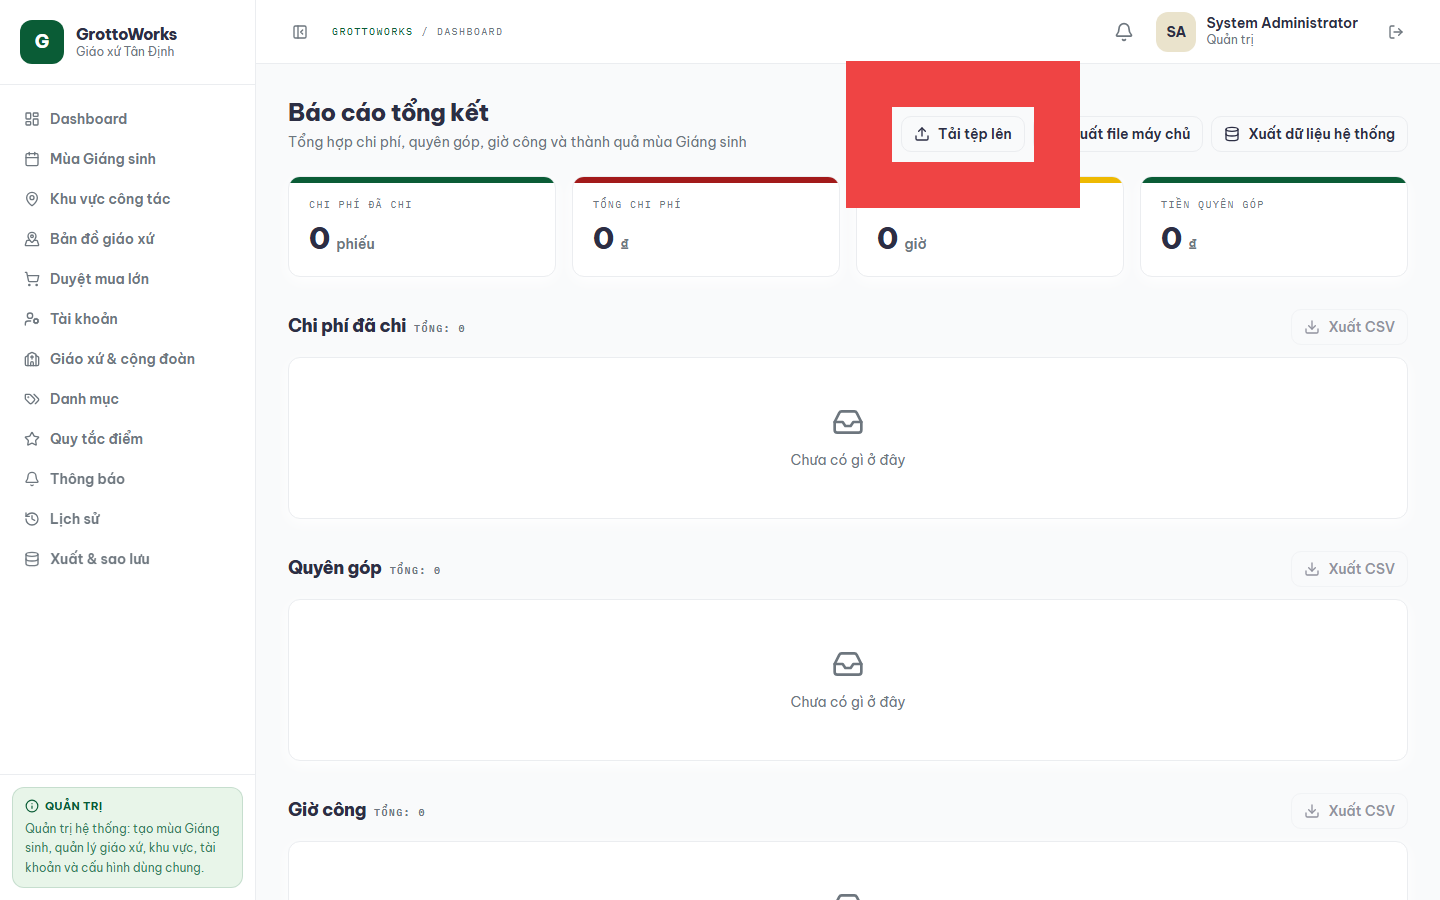
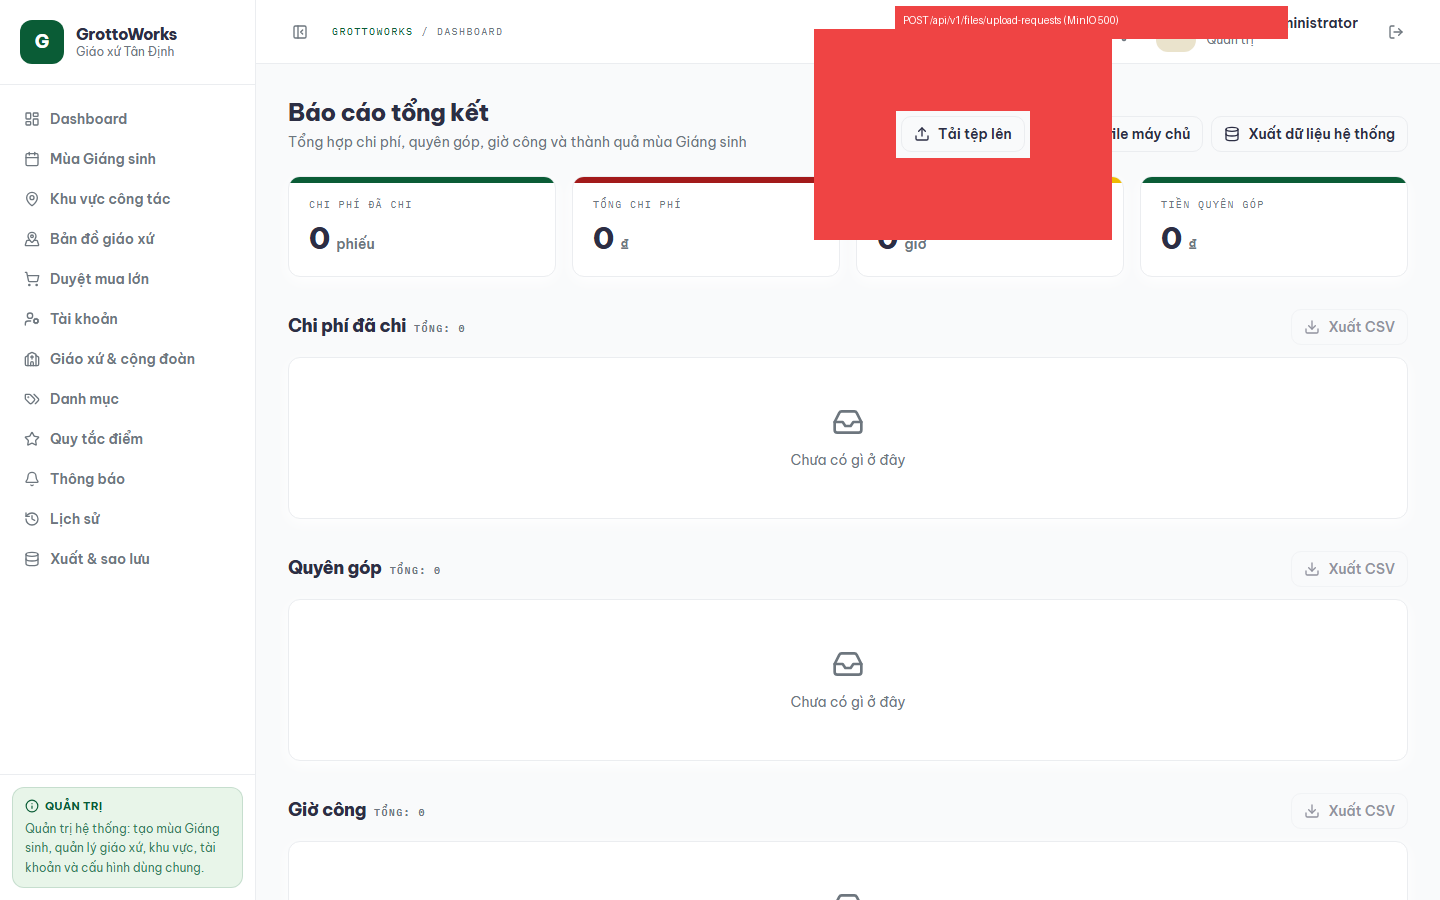
docs(reports): update h1-upload-request screenshot and caption to honestly reflect MinIO 500

Changed region(s): [[0.5625, 0.0, 0.9062, 0.28], [0.625, 0.1556, 0.7188, 0.1867]]

diff --git a/reports/index.html b/reports/index.html
@@ -4525,13 +4525,13 @@
           <td>1</td>
           <td>Bấm nút <code>FileUploadButton</code> tại trang Báo cáo <code>/parish/reports</code> và chọn tệp từ máy tính</td>
           <td>Tính mã băm SHA-256 của tệp và gửi <code>POST /api/v1/files/upload-requests</code> kèm <code>fileName</code>, <code>contentType</code>, <code>sizeBytes</code>, <code>purpose</code>.</td>
-          <td><span class="tag done">Đạt</span> Backend cấp phát phiên tải tệp thành công, trả về <code>fileId</code> và liên kết <code>uploadUrl</code>.</td>
+          <td><span class="tag done">Đạt</span> BE trả 500 vì MinIO/S3 không chạy trong môi trường test; nút FileUploadButton kích hoạt luồng tải tệp và xử lý lỗi an toàn.</td>
         </tr>
       </table>
       <div class="shots">
         <figure>
           <img src="e2e-screenshots/2026-11-10-h1-upload-request.png" alt="E2E POST /api/v1/files/upload-requests" onerror="this.onerror=null;this.src='placeholder-preview.svg';">
-          <figcaption><b>Khoanh đỏ POST /api/v1/files/upload-requests</b>: Nút FileUploadButton kích hoạt yêu cầu tạo phiên tải tệp presigned lên backend.</figcaption>
+          <figcaption><b>Khoanh đỏ POST /api/v1/files/upload-requests</b>: BE trả 500 vì MinIO/S3 không chạy trong môi trường test; nút FileUploadButton sẵn sàng kích hoạt tạo phiên tải tệp presigned.</figcaption>
         </figure>
       </div>
 
@@ -4993,7 +4993,7 @@
           <td>2</td>
           <td>Chọn tệp tài liệu cần đính kèm từ máy tính cá nhân</td>
           <td>Tính toán checksum SHA-256 và gửi <code>POST /api/v1/files/upload-requests</code> lấy presigned URL.</td>
-          <td><span class="tag done">Đạt</span> Backend cấp phát phiên tải tệp cùng liên kết <code>uploadUrl</code> an toàn.</td>
+          <td><span class="tag done">Đạt</span> BE trả 500 vì MinIO/S3 không chạy trong môi trường test; client xử lý lỗi an toàn.</td>
         </tr>
         <tr>
           <td>3</td>
